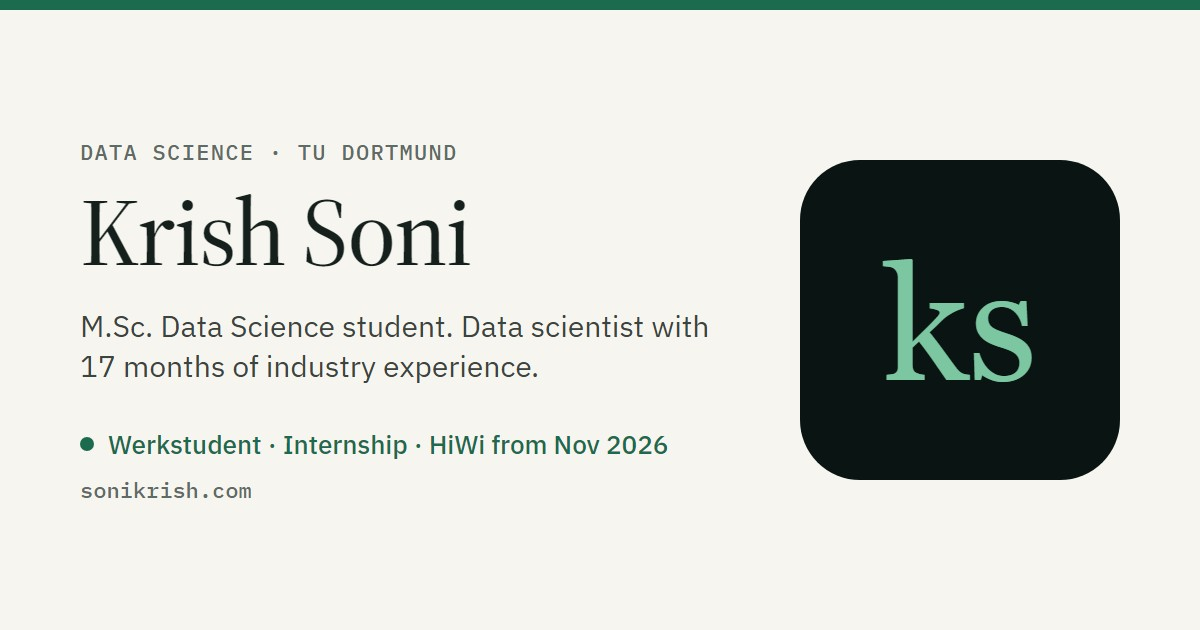
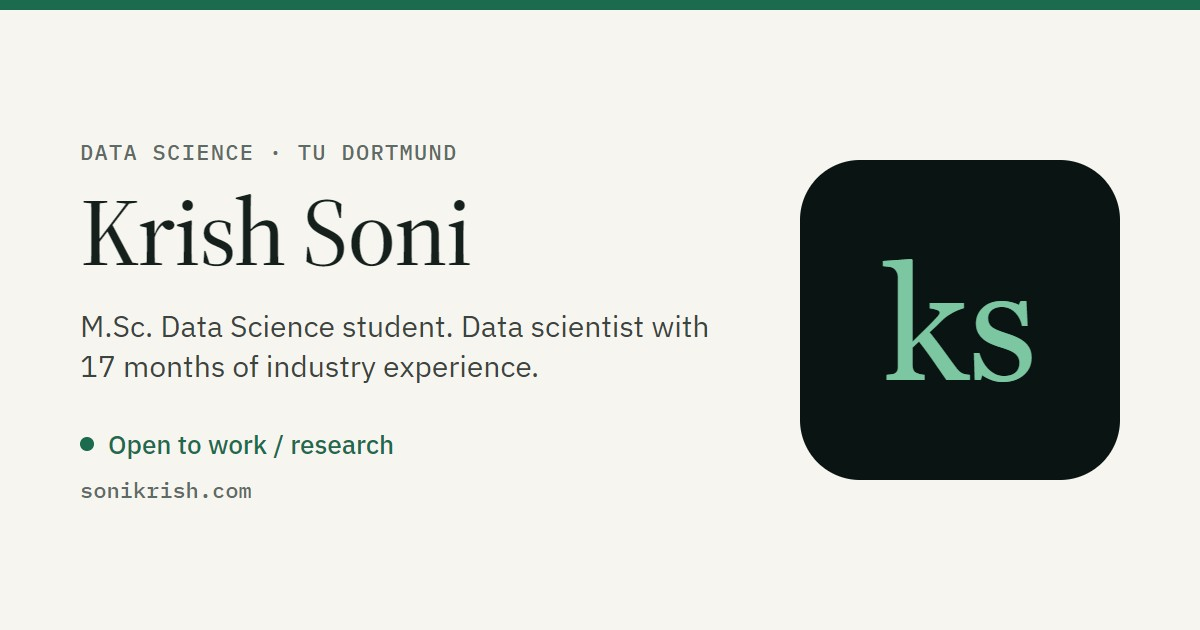
content: say open to work/research, reword PRM, remove old resume PDF

Changed region(s): [[0.0925, 0.6937, 0.555, 0.7238]]

diff --git a/src/lib/data.ts b/src/lib/data.ts
@@ -11,20 +11,19 @@ export const siteConfig = {
   statement:
     'I turn messy business data into decisions, and build the software that puts those decisions in front of people.',
   intro:
-    'Until October 2026 I was the data scientist at PRM & Company, a pharmaceutical company in India, where I ran sales and marketing analytics and built the company’s online shop and KPI dashboard. I’ve now started the M.Sc. in Data Science at TU Dortmund.',
+    'Until October 2026 I was the data scientist at PRM & Company, a pharmaceutical marketing company in India, where I ran sales and marketing analytics and built the company’s online shop and KPI dashboard. I’ve now started the M.Sc. in Data Science at TU Dortmund.',
   description:
-    'Krish Soni, M.Sc. Data Science student at TU Dortmund. Open to Werkstudent, internship and HiWi / research assistant roles in data science, analytics and ML engineering.',
+    'Krish Soni, M.Sc. Data Science student at TU Dortmund. Open to work and research in data science, analytics and ML engineering.',
   email: 'sonikrish2248@gmail.com',
   location: 'Dortmund, Germany',
-  // Public CV (no address or date of birth). Set to '' to hide the CV links.
-  resumeUrl: '/Krish_Soni_Resume.pdf',
+  // Public CV (no phone, address, photo or date of birth). '' hides the CV links.
+  resumeUrl: '',
   siteUrl: 'https://sonikrish.com/',
-  updated: 'October 2026',
+  updated: 'November 2026',
 }
 
 export const availability = {
-  from: 'November 2026',
-  roles: ['Werkstudent', 'Internship', 'HiWi / research assistant'],
+  headline: 'Open to work / research',
   terms: 'Dortmund or remote · up to 20 h/week during the semester, full-time in semester breaks',
 }
 
@@ -57,16 +56,12 @@ export const quickFacts = [
 
 export const openTo = [
   {
-    title: 'Werkstudent',
+    title: 'Work',
     body: 'Data science, analytics or ML engineering in a product or business team: reporting and dashboards, data pipelines, statistical analysis, forecasting, and the internal tools around them.',
   },
   {
-    title: 'Internship',
-    body: 'A data science or ML engineering internship during the semester breaks, ideally where models actually reach users or decisions rather than staying in a notebook.',
-  },
-  {
-    title: 'HiWi / research assistant',
-    body: 'Supporting a chair or research group at TU Dortmund with data preparation, statistical analysis, experiment tooling, visualisation, or web front ends for research software.',
+    title: 'Research',
+    body: 'Supporting a chair or research group with data preparation, statistical analysis, experiment tooling, visualisation, or web front ends for research software.',
   },
 ]
 

diff --git a/src/lib/data.de.ts b/src/lib/data.de.ts
@@ -173,13 +173,13 @@ export const contentDe: Content = {
     statement:
       'Ich verwandle unübersichtliche Geschäftsdaten in Entscheidungen und baue die Software, die diese Entscheidungen sichtbar macht.',
     intro:
-      'Bis Oktober 2026 war ich Data Scientist bei PRM & Company, einem Pharmaunternehmen in Indien. Dort habe ich die Vertriebs- und Marketinganalysen verantwortet und den Onlineshop sowie das KPI-Dashboard des Unternehmens aufgebaut. Seit dem Wintersemester 2026/27 studiere ich Data Science (M.Sc.) an der TU Dortmund.',
+      'Bis Oktober 2026 war ich Data Scientist bei PRM & Company, einem Pharma-Marketingunternehmen in Indien. Dort habe ich die Vertriebs- und Marketinganalysen verantwortet und den Onlineshop sowie das KPI-Dashboard des Unternehmens aufgebaut. Seit dem Wintersemester 2026/27 studiere ich Data Science (M.Sc.) an der TU Dortmund.',
     location: 'Dortmund, Deutschland',
-    updated: 'Oktober 2026',
+    updated: 'November 2026',
   },
   availability: {
     ...contentEn.availability,
-    roles: ['Werkstudent', 'Praktikum', 'HiWi / studentische Hilfskraft'],
+    headline: 'Offen für Jobs / Forschung',
     terms: 'Dortmund oder remote · bis zu 20 Std./Woche im Semester, Vollzeit in der vorlesungsfreien Zeit',
   },
   quickFacts: [
@@ -191,16 +191,12 @@ export const contentDe: Content = {
   ],
   openTo: [
     {
-      title: 'Werkstudent',
+      title: 'Jobs',
       body: 'Data Science, Analytics oder ML Engineering in einem Produkt- oder Fachteam: Reporting und Dashboards, Datenpipelines, statistische Analysen, Prognosen und die internen Tools dazu.',
     },
     {
-      title: 'Praktikum',
-      body: 'Ein Praktikum in Data Science oder ML Engineering in der vorlesungsfreien Zeit – am liebsten dort, wo Modelle tatsächlich bei Nutzern oder in Entscheidungen ankommen, statt im Notebook zu bleiben.',
-    },
-    {
-      title: 'HiWi / studentische Hilfskraft',
-      body: 'Unterstützung eines Lehrstuhls oder einer Forschungsgruppe an der TU Dortmund bei Datenaufbereitung, statistischer Analyse, Tooling für Experimente, Visualisierung oder Web-Frontends für Forschungssoftware.',
+      title: 'Forschung',
+      body: 'Unterstützung eines Lehrstuhls oder einer Forschungsgruppe bei Datenaufbereitung, statistischer Analyse, Tooling für Experimente, Visualisierung oder Web-Frontends für Forschungssoftware.',
     },
   ],
   featuredProjects: withProjectText(contentEn.featuredProjects),

diff --git a/src/lib/i18n.ts b/src/lib/i18n.ts
@@ -18,13 +18,12 @@ const uiEn = {
   theme: { toLight: 'Switch to light mode', toDark: 'Switch to dark mode' },
   language: { label: 'Language', names: { en: 'English', de: 'Deutsch' } },
   hero: {
-    availableFrom: (from: string) => `Available from ${from}`,
     email: 'Email me',
     cv: 'CV (PDF)',
   },
   openTo: {
     title: 'Open to',
-    note: (from: string) => `From ${from}, alongside my M.Sc.`,
+    note: 'Alongside my M.Sc.',
   },
   experience: {
     title: 'Experience',
@@ -60,8 +59,7 @@ const uiEn = {
   },
   contact: {
     title: 'Contact',
-    pitch: (from: string) =>
-      `Hiring a Werkstudent, intern or HiWi from ${from}? Email is the quickest way to reach me.`,
+    pitch: 'Have work or research in mind? Email is the quickest way to reach me.',
     email: 'Email',
     cv: 'CV',
     cvValue: 'Download PDF',
@@ -85,13 +83,12 @@ const uiDe: UI = {
   theme: { toLight: 'Zum hellen Modus wechseln', toDark: 'Zum dunklen Modus wechseln' },
   language: { label: 'Sprache', names: { en: 'English', de: 'Deutsch' } },
   hero: {
-    availableFrom: (from: string) => `Verfügbar ab ${from}`,
     email: 'E-Mail schreiben',
     cv: 'Lebenslauf (PDF, Englisch)',
   },
   openTo: {
     title: 'Offen für',
-    note: (from: string) => `Ab ${from}, neben meinem Masterstudium.`,
+    note: 'Neben meinem Masterstudium.',
   },
   experience: {
     title: 'Erfahrung',
@@ -126,8 +123,7 @@ const uiDe: UI = {
   },
   contact: {
     title: 'Kontakt',
-    pitch: (from: string) =>
-      `Sie suchen ab ${from} einen Werkstudenten, Praktikanten oder eine HiWi-Kraft? Am schnellsten erreichen Sie mich per E-Mail.`,
+    pitch: 'Sie haben einen Job oder ein Forschungsprojekt für mich? Am schnellsten erreichen Sie mich per E-Mail.',
     email: 'E-Mail',
     cv: 'Lebenslauf',
     cvValue: 'PDF herunterladen (Englisch)',

diff --git a/index.html b/index.html
@@ -6,17 +6,17 @@
     <link rel="icon" type="image/svg+xml" href="/favicon.svg" />
 
     <title>Krish Soni · Data Science, TU Dortmund</title>
-    <meta name="description" content="Krish Soni, M.Sc. Data Science student at TU Dortmund. Open to Werkstudent, internship and HiWi / research assistant roles in data science, analytics and ML engineering." />
+    <meta name="description" content="Krish Soni, M.Sc. Data Science student at TU Dortmund. Open to work and research in data science, analytics and ML engineering." />
     <link rel="canonical" href="https://sonikrish.com/" />
 
     <meta property="og:type" content="website" />
     <meta property="og:url" content="https://sonikrish.com/" />
     <meta property="og:title" content="Krish Soni · Data Science, TU Dortmund" />
-    <meta property="og:description" content="M.Sc. Data Science student at TU Dortmund. Open to Werkstudent, internship and HiWi roles." />
+    <meta property="og:description" content="M.Sc. Data Science student at TU Dortmund. Open to work and research." />
     <meta property="og:image" content="https://sonikrish.com/og-image.jpg" />
     <meta property="og:image:width" content="1200" />
     <meta property="og:image:height" content="630" />
-    <meta property="og:image:alt" content="Krish Soni, M.Sc. Data Science student at TU Dortmund, open to Werkstudent, internship and HiWi roles from November 2026. ks logo." />
+    <meta property="og:image:alt" content="Krish Soni, M.Sc. Data Science student at TU Dortmund, open to work and research. ks logo." />
     <meta name="twitter:card" content="summary_large_image" />
     <meta name="twitter:image" content="https://sonikrish.com/og-image.jpg" />
 

diff --git a/src/components/sections/Contact.tsx b/src/components/sections/Contact.tsx
@@ -5,7 +5,7 @@ import Section from '../layout/Section'
 
 const Contact: FC = () => {
   const { t, c } = useLanguage()
-  const { siteConfig, availability } = c
+  const { siteConfig } = c
   const links = [
     { label: t.contact.email, value: siteConfig.email, href: socialLinks.email },
     { label: 'LinkedIn', value: 'krish-soni-460932228', href: socialLinks.linkedin },
@@ -16,7 +16,7 @@ const Contact: FC = () => {
 
   return (
     <Section id="contact" title={t.contact.title}>
-      <p className="max-w-2xl font-serif text-2xl leading-snug text-ink sm:text-3xl">{t.contact.pitch(availability.from)}</p>
+      <p className="max-w-2xl font-serif text-2xl leading-snug text-ink sm:text-3xl">{t.contact.pitch}</p>
       <a
         href={socialLinks.email}
         className="mt-6 inline-block text-lg text-accent underline decoration-1 underline-offset-4 hover:text-ink"

diff --git a/src/components/sections/Hero.tsx b/src/components/sections/Hero.tsx
@@ -17,11 +17,10 @@ const Hero: FC = () => {
           <p className="mt-5 max-w-2xl text-ink-2">{siteConfig.intro}</p>
 
           <div className="mt-10 max-w-2xl rounded-lg border border-line bg-surface p-5 sm:p-6">
-            <p className="flex items-center gap-2 text-sm font-medium text-accent">
+            <p className="flex items-center gap-2 text-lg font-medium text-accent">
               <span className="h-2 w-2 rounded-full bg-accent" aria-hidden="true" />
-              {t.hero.availableFrom(availability.from)}
+              {availability.headline}
             </p>
-            <p className="mt-2 text-lg text-ink">{availability.roles.join(' · ')}</p>
             <p className="mt-1 text-sm text-muted">{availability.terms}</p>
             <div className="mt-5 flex flex-wrap gap-2">
               <ButtonLink href={socialLinks.email} variant="primary">

diff --git a/src/components/sections/OpenTo.tsx b/src/components/sections/OpenTo.tsx
@@ -6,8 +6,8 @@ const OpenTo: FC = () => {
   const { t, c } = useLanguage()
 
   return (
-    <Section id="open-to" title={t.openTo.title} note={t.openTo.note(c.availability.from)}>
-      <div className="grid gap-px overflow-hidden rounded-lg border border-line bg-line md:grid-cols-3">
+    <Section id="open-to" title={t.openTo.title} note={t.openTo.note}>
+      <div className="grid gap-px overflow-hidden rounded-lg border border-line bg-line md:grid-cols-2">
         {c.openTo.map((item) => (
           <div key={item.title} className="bg-surface p-5 sm:p-6">
             <h3 className="font-medium text-ink">{item.title}</h3>

diff --git a/scripts/og-card.html b/scripts/og-card.html
@@ -16,7 +16,7 @@ h1{font-family:'Source Serif 4',serif;font-weight:500;font-size:96px;letter-spac
 <p class="eyebrow">Data Science · TU Dortmund</p>
 <h1>Krish Soni</h1>
 <p class="line">M.Sc. Data Science student. Data scientist with 17 months of industry experience.</p>
-<p class="avail"><span class="dot"></span>Werkstudent · Internship · HiWi from Nov 2026</p>
+<p class="avail"><span class="dot"></span>Open to work / research</p>
 <p class="url">sonikrish.com</p>
 </div>
 <svg class="logo" xmlns="http://www.w3.org/2000/svg" viewBox="0 0 32 32">

diff --git a/CLAUDE.md b/CLAUDE.md
@@ -5,10 +5,10 @@ Personal portfolio of Krish Hemang Soni. Read this first in any new session.
 ## Who / why
 
 - Krish is doing an **M.Sc. Data Science at TU Dortmund**, winter intake 2026/27, 2026–2028. He lives in Dortmund.
-- He was a **Data Scientist at PRM & Company (PRM Pharmaceuticals)** in Bhavnagar, India, from 2 Jun 2025 to **31 Oct 2026**. Describe PRM as "a pharmaceutical company": never "manufacturer", and don't mention manufacturing. His PRM work: data analysis, data visualisation (Python libraries only), website development. Do **not** add SEO or app development to the PRM entry.
-- The site's goal is to land **Werkstudent, internship and HiWi / research assistant** roles in data science, analytics and ML engineering, available from **November 2026**.
+- He was a **Data Scientist at PRM & Company (PRM Pharmaceuticals)** in Bhavnagar, India, from 2 Jun 2025 to **31 Oct 2026**. Describe PRM as "a pharmaceutical **marketing** company" (Krish, 24 Nov 2026): it does not manufacture, so never "manufacturer" and don't mention manufacturing. His PRM work: data analysis, data visualisation (Python libraries only), website development. Do **not** add SEO or app development to the PRM entry.
+- The site's goal is to land work or research in data science, analytics and ML engineering. The site says only **"Open to work / research"**: Krish asked (24 Nov 2026) not to name Werkstudent, internship or HiWi, so don't re-add them. (Past internships in Experience stay.)
 - Content source: his **final CVs (Oct 2026)** in Downloads: `CV_Krish_Soni.pdf` (English, photo, address, DOB), `Lebenslauf_Krish_Soni.pdf` (German version of it) and `Resume_Krish_Soni.pdf` (no photo, address or DOB; has the full project list). Older drafts like `Krish_Hemang_Soni_CV_Academic.pdf`, the PRM recommendation letter and a LinkedIn post are background only. The site must not claim more than the final CVs (e.g. FUTOLOGY's ML features are a *next milestone*, not shipped).
-- Only `Resume_Krish_Soni.pdf` is public (`public/Krish_Soni_Resume.pdf`). Krish chose not to publish the CV/Lebenslauf because they show his home address and date of birth. Never put those on the site.
+- **Public CV:** `public/Krish_Soni_CV.pdf` (since 24 Nov 2026), a privacy-safe build of his Nov 2026 CV: Personal Details block and phone/address removed, PRM reworded as a marketing company. Never publish his phone number, street address, date of birth, residence-permit details or photo, including inside a PDF. His private CV (`Krish_Soni_CV.pdf`) and its HTML source (`Krish_Soni_CV_source.zip`) are in Downloads and are **not** safe to publish as they are. Older CVs: `Desktop/Everything/Docs all/Resume work`.
 - Note: the CVs themselves call PRM a "manufacturer" and mention manufacturing orders; the site rule below still applies to the site.
 
 ## Stack and deploy
@@ -26,7 +26,7 @@ Personal portfolio of Krish Hemang Soni. Read this first in any new session.
 - `src/styles/globals.css`: colour tokens for light (warm paper `#f6f5f0`) and dark (forest green `#091413`, his choice). Components use the token colours (`bg`, `surface`, `plate`, `ink`, `ink-2`, `muted`, `line`, `line-strong`, `accent`) rather than `dark:` variants.
   - The cover colour is named `plate` because `bg-cover` clashes with a built-in Tailwind utility.
   - Opacity modifiers like `bg-bg/95` don't work on these `var()` colours.
-- `public/`: `Krish_Soni_Resume.pdf` (CV button in Hero + Contact via `siteConfig.resumeUrl`), `og-image.jpg` (1200×630 social preview with the "ks" logo, **no photo**). Source is `scripts/og-card.html`; to regenerate after a name/role/availability change, edit it and run Chrome headless: `chrome --headless=new --hide-scrollbars --window-size=1200,630 --virtual-time-budget=8000 --screenshot=og.png file:///<abs path>/scripts/og-card.html`, then save as JPEG to `public/og-image.jpg`.
+- `public/`: `Krish_Soni_CV.pdf` (CV button in Hero + Contact via `siteConfig.resumeUrl`), `og-image.jpg` (1200×630 social preview with the "ks" logo, **no photo**). Source is `scripts/og-card.html`; to regenerate after a name/role/availability change, edit it and run Chrome headless: `chrome --headless=new --hide-scrollbars --window-size=1200,630 --virtual-time-budget=8000 --screenshot=og.png file:///<abs path>/scripts/og-card.html`, then save as JPEG to `public/og-image.jpg`.
 - Fonts: IBM Plex Sans (body), IBM Plex Mono (metadata), Source Serif 4 (headings), loaded in `index.html`.
 - Medium handle is `@krish2248` (confirmed by Krish, 28 Oct 2026).
 
@@ -54,6 +54,7 @@ Personal portfolio of Krish Hemang Soni. Read this first in any new session.
 | tag `pre-i18n-2026-10` (= `9769df9`) | Backup before the German version |
 | `efb3832` | EN/DE language switch, full German translation |
 | tag `pre-nophoto-2026-10` (= `e70749d`) | Backup before removing the hero photo |
+| tag `pre-opento-2026-11` (= `ba8cc26`) | Backup before the 24 Nov 2026 changes (roles wording, resume PDF removed, PRM as marketing company) |
 | `714081c` | Hero photo removed in both themes (Krish's request). `ffee1c9` also accidentally committed `.claude/settings.local.json` (only a permission allowlist line, harmless) |
 
 **Undo:**
@@ -83,7 +84,6 @@ Krish said he is **"just getting started"** and that **there's a lot to change i
 
 ## Next up (pending)
 
-1. **Updated resume from Krish.** He is reworking it (a lot to change, including removing "manufacturer"/manufacturing wording). When it arrives: replace `public/Krish_Soni_Resume.pdf`, re-check the site against it, and mirror every content change in **both** `data.ts` and `data.de.ts`. Re-read it fully before publishing (privacy: no address or DOB on the public file).
+1. **Sync site content to the Nov 2026 CV** in both `data.ts` and `data.de.ts` (LHCb classifier, Scikit-HEP, Bayesian module and so on), once Krish confirms. The CV links `krish2248/lhcb-tau-3mu`, which returned 404 on 24 Nov 2026.
 2. Have a German speaker review the German text (hero statement and "Offen für" first).
-3. Optional: drop the reference quotes if he'd rather keep them CV-only.
-4. After 31 Oct 2026, re-read the hero/intro so PRM reads as a past job.
+3. Reference quotes stay (Krish, 24 Nov 2026).
